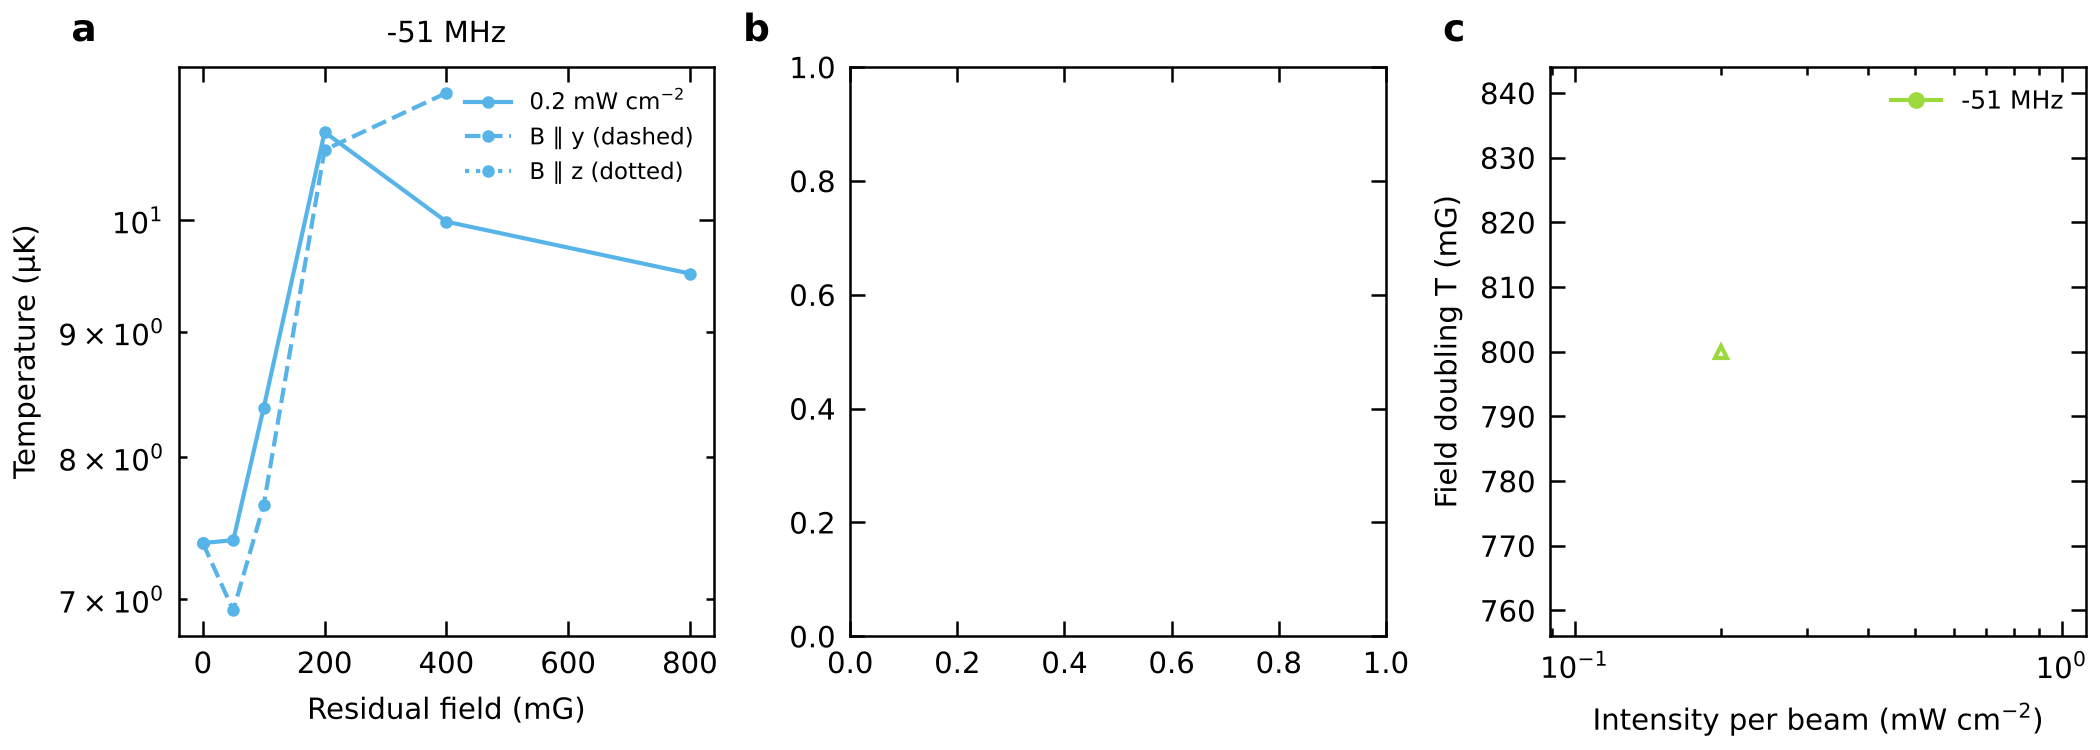
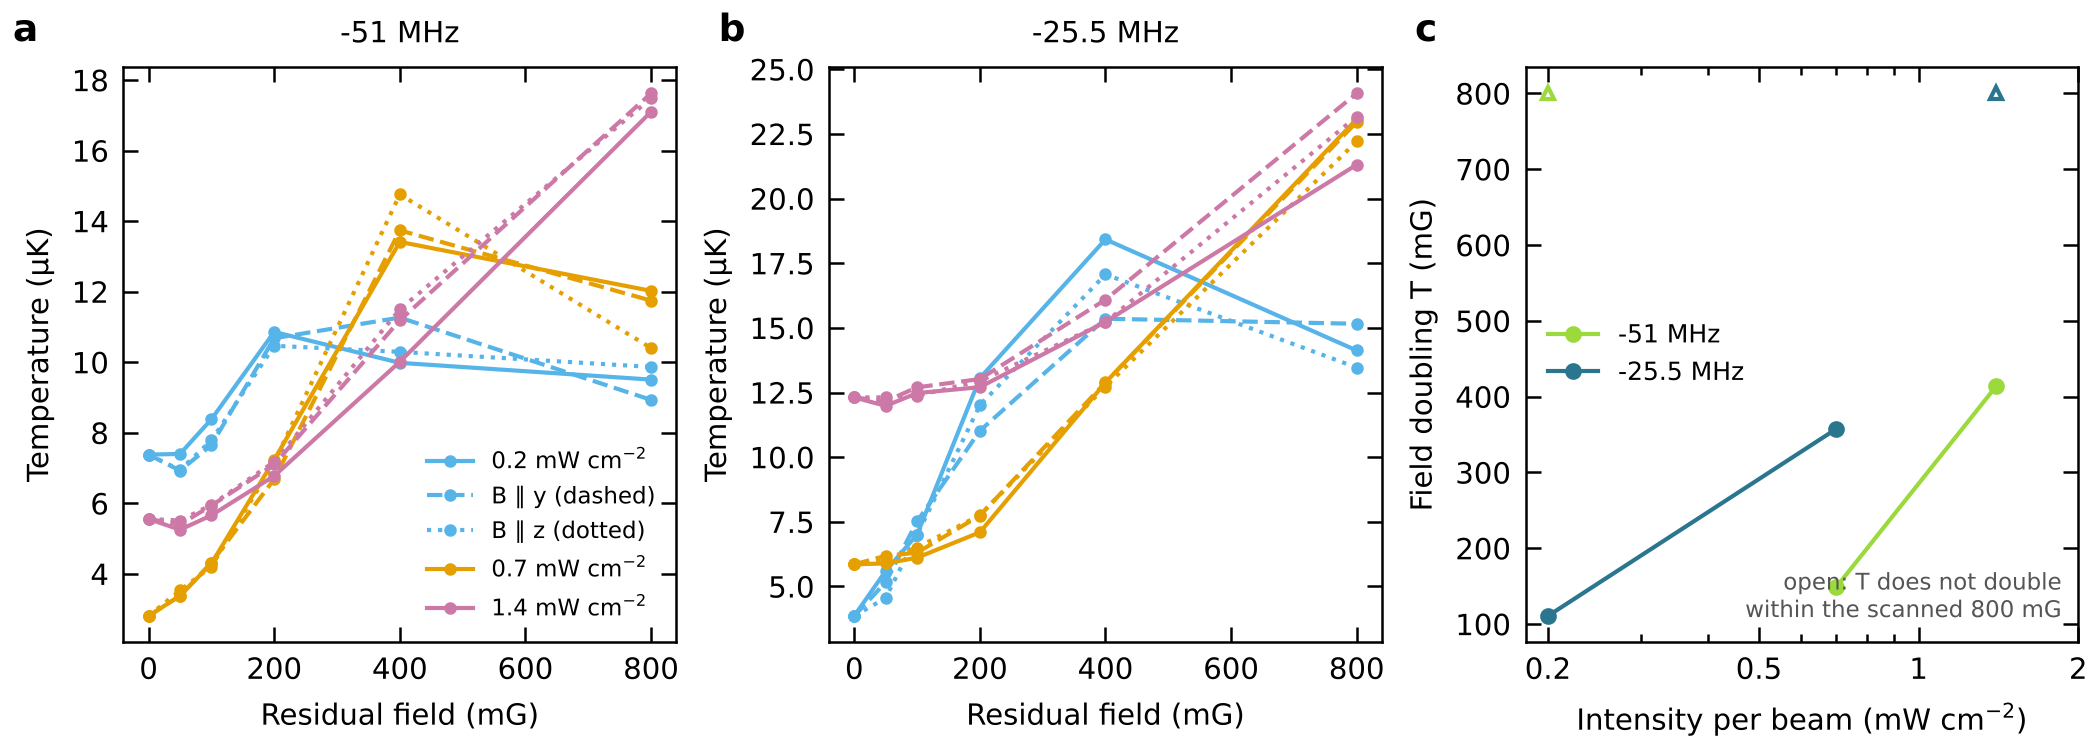
Add the field, Li and Salomon results to the molasses findings
Field doubling T (mean of x, y, z): -25.5 MHz 110 mG at 0.2 mW/cm^2, 357 mG at
0.7; -51 MHz 149 mG at 0.7, 413 mG at 1.4. Li conditions (15 kHz, -45.5 MHz):
T_min 3.36 uK at 0.7 mW/cm^2 (Li: 3.3 uK at ~0.7, depumping method).
Salomon C = 0.356 (0.35).

Claude-Session: https://claude.ai/code/session_01Tq2BHBDkQC5QHh46bwt5JD

diff --git a/scripts/figure_molasses.py b/scripts/figure_molasses.py
@@ -26,6 +26,7 @@ from pathlib import Path
 
 import numpy as np
 import matplotlib
+import matplotlib.ticker
 
 matplotlib.use("Agg")
 import matplotlib.pyplot as plt  # noqa: E402
@@ -102,10 +103,9 @@ def figure_field(tab, out):
                     continue
                 a.plot(c[0], c[1].mean(axis=1), color=icol[n % 3], ls=AXIS_STYLES[ka], marker="o", ms=2,
                        label=f"{i:g} mW cm$^{{-2}}$" if ka == 0 else (f"B ∥ {'xyz'[ka]}" if n == 0 else None))
-        a.set_yscale("log")
         a.set_xlabel("Residual field (mG)")
         a.set_ylabel("Temperature (µK)")
-        a.set_title(f"{d:+.0f} MHz", fontsize=7)
+        a.set_title(f"{d:+g} MHz", fontsize=7)
     if len(show):
         h, lab = ax[0].get_legend_handles_labels()
         ax[0].legend(h, [l.replace("B ∥ y", "B ∥ y (dashed)").replace("B ∥ z", "B ∥ z (dotted)") for l in lab],
@@ -118,10 +118,15 @@ def figure_field(tab, out):
             continue
         b2 = np.array([np.mean([tab.doubling_field(d, i, a) for a in range(3)]) for i in ii])
         fin = np.isfinite(b2)
-        ax[2].plot(np.array(ii)[fin], b2[fin], color=cols[k], marker="o", ms=3, label=f"{d:+.0f} MHz")
+        ax[2].plot(np.array(ii)[fin], b2[fin], color=cols[k], marker="o", ms=3, label=f"{d:+g} MHz")
         ax[2].plot(np.array(ii)[~fin], np.full((~fin).sum(), bmax), color=cols[k], marker="^", ms=3, mfc="none",
                    ls="none")
     ax[2].set_xscale("log")
+    ax[2].set_xticks([0.2, 0.5, 1.0, 2.0])
+    ax[2].set_xticklabels(["0.2", "0.5", "1", "2"])
+    ax[2].xaxis.set_minor_formatter(matplotlib.ticker.NullFormatter())
+    ax[2].text(0.97, 0.03, "open: T does not double\nwithin the scanned 800 mG", transform=ax[2].transAxes,
+               ha="right", va="bottom", fontsize=5.5, color="#555555")
     ax[2].set_xlabel("Intensity per beam (mW cm$^{-2}$)")
     ax[2].set_ylabel("Field doubling T (mG)")
     ax[2].legend(fontsize=6)

diff --git a/docs/findings.md b/docs/findings.md
@@ -372,3 +372,7 @@ The loop-1 change gains 2.2–2.3 points at every dark-scatter level (y: 3.1 →
 **Lab intensity.** Request 5 at rescale 24 gives 2.2 µW from the fiber, 0.40–0.50 µW per beam (Maarten, 2026-10-29); with Li's 140 µm waist 1.46 mW/cm² per beam (s = 0.083 at −25.5 MHz). The molasses calibration `OM-2014-9-3.txt` (rescaled 14 → 24 on 2026-10-27) predicts 4.4 µW for that request: the 2014 voltage curve over-states the power by 2× at 2.4 V. The PGC-field hold (`PGC_vapor_loading.dt4`, supertime-analysis) requests 0.6 (≈ 1.9 V, the threshold knee), nominally 0.12 of the imaging power; its true power is unknown until the curve is remeasured.
 
 **Comparison with the 2026-10-26 power scans** (`data/measured/molasses_hopping_20261026.csv`, `data/molasses/lab1026.jsonl`, `figures/molasses_lab_20261026.png`). Hopping sequence, 9 + 9 exposures of 100 ms (≈ 0.9 s of molasses per image cycle), full depth. Measured loss per cycle at +100 MHz: 26.6, 14.2, 7.8, 5.3, 4.4, 3.2–3.5 % at rescale 14 … 24; site-to-site moves 0.2–3.3 %. Model at −25.5 MHz with I = 1.46 × 24/r mW/cm²: T = 23.3, 20.2, 17.8, 15.9, 14.2, 13.1 µK. With Γ_a = 1/τ_E the predicted loss is ≥ 73 % at every point (failed); with Γ_a = 265 s⁻¹ it is 29, 12.8, 6.4, 2.8, 1.0, 0.5 %, i.e. the measured values above r ≈ 18 and below them by a ≈ 3 % floor. Since the hop rate is steep in T, the same data are also matched with Γ_a = 1/τ_E if the intensity at the atoms is ≈ 0.7 of the estimate (T ≈ 9 µK at r = 24); a sideband temperature at r = 24 and +100 MHz separates the two (13 µK against ≈ 9 µK).
+
+**Field sensitivity** (`data/molasses/field.jsonl`, `figures/molasses_field.png`; 64 atoms per point, field along one lattice axis, ground-state Zeeman term only). The response is nearly isotropic (x, y, z within the statistics). Field at which T doubles, mean over axes: −25.5 MHz 110 mG at 0.2 mW/cm², 357 mG at 0.7; −51 MHz 149 mG at 0.7, 413 mG at 1.4 mW/cm². At −51 MHz, 0.2 mW/cm² (7.4 µK at zero field) and at −25.5 MHz, 1.4 mW/cm² (12.3 µK) T does not double within 800 mG. The sensitivity falls with intensity because optical pumping outpaces the Larmor precession. At the PGC-hold intensity (nominally 0.12 of imaging, ≈ 0.2 mW/cm²) the new detuning gives a sharp field dependence (3.9 → 13 µK between 0 and 200 mG); the old one a weak one from an already warm start (7.4 → 10.9 µK). Per-point survival from the tail temperature is noisy at 64 atoms; use T and B₂.
+
+**Li (2009) conditions** (`data/molasses/li.jsonl`; 15 kHz, 165 µK, −45.5 MHz). T = 8.7, 7.6, 6.6, 3.36, 6.1, 12.9 µK at 0.1, 0.2, 0.35, 0.7, 1.4, 2.8 mW/cm²: minimum at 0.7 mW/cm², 3.36 µK, against Li's minimum at ≈ 0.7 mW/cm² and 3.3 µK from depumping (p. 58, 71–72) — accepted. Li's hopping-based 10 µK is not reproduced; Li attributes it to non-thermal tails. The full-statistics Salomon run (`data/molasses/salomon.jsonl`) gives C = 0.356 (0.35).
